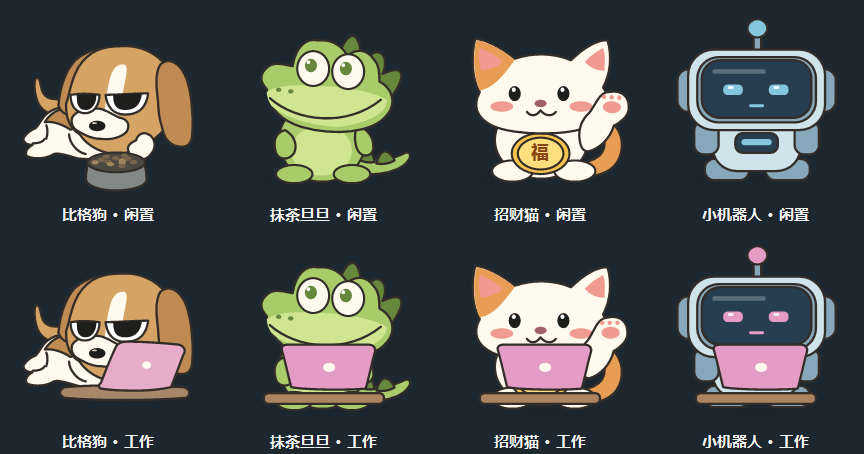
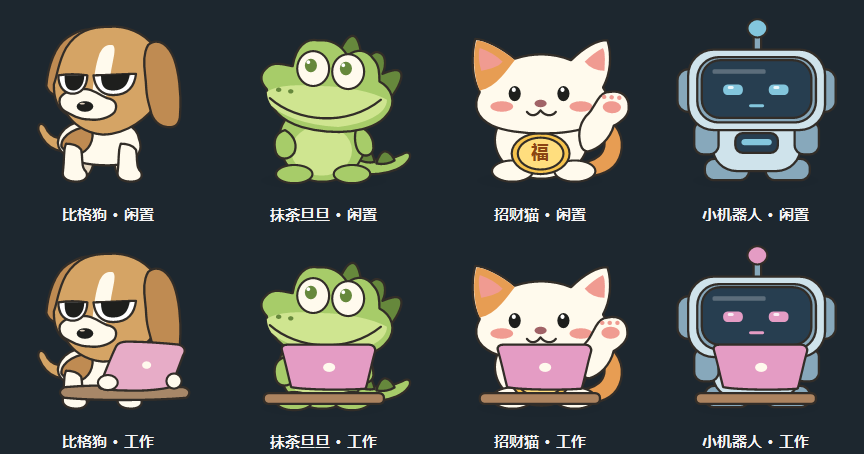
Give the beagle distinct idle, sleep and working poses

Changed region(s): [[0.0312, 0.0617, 0.25, 0.4317], [0.0312, 0.5551, 0.25, 0.8943]]

diff --git a/src/BeagleArt.cs b/src/BeagleArt.cs
@@ -11,7 +11,9 @@ internal static partial class StickerArt
     private static readonly Color Cream = Color.FromArgb(255, 250, 237);
     private static readonly Color Black = Color.FromArgb(30, 31, 29);
 
-    private static Bitmap RenderBeagle(int theme, int phase, int pose, double yaw, bool walking, int width, double lean)
+    private enum BeagleBody { Standing, Sitting, Lounging, Curled, Peeking, Lifted }
+
+    private static Bitmap RenderBeagle(int theme, int frame, int pose, double yaw, bool walking, int width, double lean)
     {
         Bitmap result = new Bitmap(width, Math.Max(1, (int)Math.Round(width * .95)), PixelFormat.Format32bppPArgb);
         using (Graphics g = Graphics.FromImage(result))
@@ -26,12 +28,15 @@ internal static partial class StickerArt
             }
 
             Color accent = theme == 0 ? Color.FromArgb(162, 202, 220) : Color.FromArgb(231, 172, 199);
-            double t = phase * Math.PI * 2 / 48;
+            double t = (frame % 48) * Math.PI * 2 / 48;
+            // 每轮48帧继续播放局部动作，下一轮在三种闲置姿势之间换挡。
+            BeagleBody body = pose == 0 ? (walking ? BeagleBody.Standing : (BeagleBody)(frame / 48 % 3))
+                : pose == 1 ? BeagleBody.Curled : pose == 2 ? BeagleBody.Sitting : pose == 3 ? BeagleBody.Standing
+                : pose == 4 ? BeagleBody.Peeking : BeagleBody.Lifted;
             GraphicsState state = g.Save();
             if (pose == 1)
             {
-                Ellipse(g, accent, 14, 95, 111, 21);
-                g.TranslateTransform(0, 7);
+                Ellipse(g, accent, 17, 101, 105, 20);
             }
             else if (pose == 4) g.TranslateTransform(0, -13);
             else if (pose == 5)
@@ -40,21 +45,20 @@ internal static partial class StickerArt
                 g.RotateTransform((float)(lean + Math.Sin(t * 3) * 7));
                 g.TranslateTransform(-72, -66 - (float)(Math.Sin(t * 4) * 3));
             }
-            else if (pose != 0) g.TranslateTransform(0, (float)(Math.Sin(t * 2) * (walking ? 1.7 : .9)));
+            else if (body == BeagleBody.Standing) g.TranslateTransform(0, (float)(Math.Sin(t * 2) * (walking ? 1.6 : .7)));
 
-            DrawDog(g, pose, t);
+            DrawDog(g, body, pose, t, walking);
             g.Restore(state);
 
-            if (pose == 0) DrawBowl(g);
+            if (body == BeagleBody.Lounging) DrawBowl(g);
             else if (pose == 1)
             {
-                Shape(g, Color.Empty, 115, 31, 117, 30, 120, 30, 123, 30, 121, 33, 118, 35, 116, 38, 119, 38, 122, 38, 125, 37);
-                Shape(g, Color.Empty, 121, 22, 123, 21, 126, 21, 128, 21, 127, 23, 125, 25, 123, 27, 125, 27, 127, 27, 130, 26);
+                DrawSleepMark(g, accent);
             }
             else if (pose == 2)
             {
                 GraphicsState phone = g.Save();
-                g.TranslateTransform(92, 99);
+                g.TranslateTransform(80, 101);
                 g.RotateTransform(-19 + (float)Math.Sin(t * 3) * 2);
                 Shape(g, Ink, -9, -11, -9, -14, -6, -15, -4, -15, 0, -15, 4, -15, 7, -15, 10, -15, 11, -13, 11, -10, 11, -3, 11, 4, 11, 11, 11, 14, 9, 15, 6, 15, 1, 15, -3, 15, -6, 15, -9, 15, -9, 13, -9, 10, -9, 4, -9, -4, -9, -11);
                 using (SolidBrush glass = new SolidBrush(accent)) g.FillRectangle(glass, -6, -11, 14, 21);
@@ -65,14 +69,16 @@ internal static partial class StickerArt
                 Shape(g, Color.FromArgb(167, 135, 104), 42, 105, 65, 103, 94, 104, 120, 105, 125, 106, 125, 110, 122, 112, 99, 114, 62, 114, 42, 112, 38, 110, 38, 107, 42, 105);
                 Shape(g, accent, 66, 102, 69, 94, 73, 84, 76, 78, 77, 76, 80, 75, 83, 75, 94, 75, 107, 76, 117, 77, 121, 78, 122, 81, 120, 84, 117, 92, 114, 100, 112, 105, 99, 108, 80, 108, 66, 106, 64, 105, 64, 104, 66, 102);
                 Ellipse(g, Cream, 93, 88, 6, 5, false);
+                Ellipse(g, Cream, 64, 97, 13, 10);
+                Ellipse(g, Cream, 109, 96, 10, 10);
             }
         }
         return result;
     }
 
-    private static void DrawDog(Graphics g, int pose, double t)
+    private static void DrawDog(Graphics g, BeagleBody body, int pose, double t, bool walking)
     {
-        if (pose != 4)
+        if (body == BeagleBody.Lounging)
         {
             GraphicsState tail = g.Save();
             g.TranslateTransform(38, 70);
@@ -80,18 +86,29 @@ internal static partial class StickerArt
             g.TranslateTransform(-38, -70);
             Shape(g, Fur, 38, 75, 26, 75, 23, 67, 22, 57, 22, 53, 22, 51, 24, 51, 27, 53, 25, 61, 31, 64, 33, 65, 37, 65, 43, 65, 43, 70, 41, 73, 38, 75);
             g.Restore(tail);
+            Shape(g, Cream, 15, 91, 14, 92, 17, 86, 23, 84, 26, 81, 27, 77, 31, 74, 37, 69, 48, 69, 59, 70, 67, 73, 72, 78, 75, 85, 83, 86, 88, 91, 85, 96, 80, 104, 63, 105, 51, 104, 44, 102, 39, 100, 35, 101, 29, 105, 19, 104, 17, 102, 16, 100, 17, 97, 21, 95, 18, 95, 15, 94, 15, 91);
+            Shape(g, Ear, 29, 80, 34, 72, 41, 70, 51, 70, 56, 71, 61, 73, 64, 77, 58, 81, 51, 82, 46, 85, 43, 83, 36, 79, 29, 80);
+            Shape(g, Color.Empty, 30, 91, 31, 88, 31, 84, 30, 82);
+            Shape(g, Color.Empty, 21, 94, 25, 94, 28, 93, 29, 91);
+            Shape(g, Color.Empty, 45, 88, 45, 93, 50, 100, 56, 101);
         }
-        if (pose != 4)
-        {
-        Shape(g, Cream, 15, 91, 14, 92, 17, 86, 23, 84, 26, 81, 27, 77, 31, 74, 37, 69, 48, 69, 59, 70, 67, 73, 72, 78, 75, 85, 83, 86, 88, 91, 85, 96, 80, 104, 63, 105, 51, 104, 44, 102, 39, 100, 35, 101, 29, 105, 19, 104, 17, 102, 16, 100, 17, 97, 21, 95, 18, 95, 15, 94, 15, 91);
-        Shape(g, Ear, 29, 80, 34, 72, 41, 70, 51, 70, 56, 71, 61, 73, 64, 77, 58, 81, 51, 82, 46, 85, 43, 83, 36, 79, 29, 80);
-        Shape(g, Color.Empty, 30, 91, 31, 88, 31, 84, 30, 82);
-        Shape(g, Color.Empty, 21, 94, 25, 94, 28, 93, 29, 91);
-        Shape(g, Color.Empty, 45, 88, 45, 93, 50, 100, 56, 101);
-
-        }
+        else if (body != BeagleBody.Peeking) DrawBeagleBody(g, body, t, walking);
 
         GraphicsState head = g.Save();
+        if (body == BeagleBody.Standing) g.TranslateTransform(-8, -13);
+        else if (body == BeagleBody.Sitting)
+        {
+            g.TranslateTransform(70, 68);
+            g.RotateTransform((float)(-9 + Math.Sin(t) * 3));
+            g.TranslateTransform(-76, -77);
+        }
+        else if (body == BeagleBody.Curled)
+        {
+            g.TranslateTransform(80, 77);
+            g.RotateTransform(-14);
+            g.ScaleTransform(.82f, .82f);
+            g.TranslateTransform(-76, -65);
+        }
         if (pose == 5)
         {
             g.TranslateTransform(72, 68);
@@ -107,6 +124,7 @@ internal static partial class StickerArt
         Ellipse(g, Black, 58, 79, 11, 7, false);
         Ellipse(g, Color.FromArgb(221, 206, 187), 60, 80, 3.4f, 1.25f, false);
         if (pose == 5) Ellipse(g, Black, 70, 89, 6, 7, false);
+        else if (body == BeagleBody.Sitting && pose == 0) Shape(g, Color.Empty, 66, 85, 69, 88, 74, 88, 77, 85);
         g.Restore(head);
 
         if (pose == 4)
@@ -117,7 +135,55 @@ internal static partial class StickerArt
             g.TranslateTransform(-2, -5);
             return;
         }
-        Shape(g, Cream, 84, 99, 83, 97, 84, 94, 89, 92, 90, 88, 94, 86, 97, 88, 100, 89, 102, 93, 101, 97, 100, 101, 96, 105, 91, 105, 87, 105, 85, 103, 84, 99);
+        if (body == BeagleBody.Lounging) Shape(g, Cream, 84, 99, 83, 97, 84, 94, 89, 92, 90, 88, 94, 86, 97, 88, 100, 89, 102, 93, 101, 97, 100, 101, 96, 105, 91, 105, 87, 105, 85, 103, 84, 99);
+    }
+
+    private static void DrawBeagleBody(Graphics g, BeagleBody body, double t, bool walking)
+    {
+        if (body == BeagleBody.Curled)
+        {
+            // 蜷睡时四肢收起，和守食盆的趴姿使用不同的身体轮廓。
+            Ellipse(g, Cream, 25, 74, 68, 42);
+            Shape(g, Ear, 29, 92, 27, 83, 34, 75, 46, 75, 53, 76, 59, 79, 60, 85, 53, 86, 44, 87, 39, 94, 35, 95, 31, 94, 29, 92);
+            Shape(g, Fur, 44, 109, 33, 106, 30, 100, 35, 97, 40, 96, 41, 105, 52, 104, 59, 103, 65, 101, 66, 105, 65, 110, 53, 113, 44, 109);
+            Ellipse(g, Cream, 65, 104, 22, 11);
+            return;
+        }
+
+        if (body != BeagleBody.Lifted)
+        {
+            GraphicsState tail = g.Save();
+            g.TranslateTransform(50, 95);
+            g.RotateTransform((float)Math.Sin(t * (walking ? 5 : 3)) * (body == BeagleBody.Standing ? 19 : 7));
+            g.TranslateTransform(-50, -95);
+            Shape(g, Fur, 53, 98, 39, 99, 30, 92, 29, 79, 29, 75, 32, 72, 34, 77, 35, 87, 42, 89, 54, 89, 58, 91, 57, 96, 53, 98);
+            g.Restore(tail);
+        }
+        if (body == BeagleBody.Sitting)
+        {
+            Ellipse(g, Cream, 47, 73, 47, 44);
+            Shape(g, Fur, 47, 99, 46, 90, 52, 88, 57, 91, 61, 94, 60, 101, 62, 106, 58, 109, 50, 107, 47, 99);
+            Ellipse(g, Cream, 44, 106, 21, 12);
+            Ellipse(g, Cream, 77, 106, 20, 12);
+            Ellipse(g, Cream, 66, 94, 15, 16);
+            return;
+        }
+
+        float stride = (float)Math.Sin(t * (walking ? 6 : 4)) * (body == BeagleBody.Lifted ? 6 : walking ? 4 : 0);
+        // 四足分前后两层，跑动和被拎起时交替摆动。
+        Ellipse(g, Color.FromArgb(231, 216, 192), 47 - stride, 93, 14, 23);
+        Ellipse(g, Color.FromArgb(231, 216, 192), 75 + stride, 95, 14, 23);
+        Shape(g, Cream, 38, 91, 41, 80, 56, 77, 67, 78, 79, 78, 90, 82, 91, 91, 95, 101, 86, 107, 76, 108, 63, 109, 48, 107, 42, 101, 38, 98, 37, 94, 38, 91);
+        Shape(g, Ear, 40, 96, 39, 88, 52, 82, 60, 83, 62, 92, 58, 99, 51, 101, 46, 101, 42, 99, 40, 96);
+        for (int foot = 0; foot < 2; foot++)
+        {
+            GraphicsState leg = g.Save();
+            g.TranslateTransform(foot == 0 ? 43 + stride : 79 - stride, 0);
+            if (body == BeagleBody.Lifted) Ellipse(g, Cream, -2, 96, 15, 22);
+            else Shape(g, Cream, 0, 94, 4, 94, 8, 95, 10, 98, 11, 102, 10, 108, 12, 111,
+                16, 115, 13, 119, 7, 119, 0, 119, -3, 116, -2, 112, -1, 105, -2, 99, 0, 94);
+            g.Restore(leg);
+        }
     }
 
     private static void DrawEyes(Graphics g, int pose)

diff --git a/src/PetInputTests.cs b/src/PetInputTests.cs
@@ -1,4 +1,4 @@
-using System;
+using System;
 using System.Drawing;
 using System.Reflection;
 using System.Windows.Forms;
@@ -13,6 +13,28 @@ public static class PetInputTests
             check(image.Width == 1 && image.Height == 1, "A zero-width docking frame is safe on edge " + edge);
         using (Bitmap image = PetArt.Render(PetArt.Beagle, 0, 0, 0, 25, false, false, 0))
             check(image.Width == 1 && image.Height == 1, "The free-pet renderer also protects zero-width frames");
+        // 在同一局部动画相位比较身体轮廓，排除只有摇尾或换道具的变化。
+        using (Bitmap standing = PetArt.Render(PetArt.Beagle, 0, 8, 0, 25, false))
+        using (Bitmap sitting = PetArt.Render(PetArt.Beagle, 0, 56, 0, 25, false))
+        using (Bitmap lounging = PetArt.Render(PetArt.Beagle, 0, 104, 0, 25, false))
+        using (Bitmap sleeping = PetArt.Render(PetArt.Beagle, 0, 8, 1, 25, false))
+        using (Bitmap walking = PetArt.Render(PetArt.Beagle, 0, 104, 0, 25, true))
+        {
+            int standToSit = 0, sitToLounge = 0, loungeToSleep = 0, walkingToLounge = 0;
+            for (int y = 124; y < standing.Height; y++) for (int x = 0; x < standing.Width; x++)
+            {
+                bool a = standing.GetPixel(x, y).A > 100, b = sitting.GetPixel(x, y).A > 100;
+                bool c = lounging.GetPixel(x, y).A > 100, d = sleeping.GetPixel(x, y).A > 100;
+                bool e = walking.GetPixel(x, y).A > 100;
+                if (a != b) standToSit++;
+                if (b != c) sitToLounge++;
+                if (c != d) loungeToSleep++;
+                if (e != c) walkingToLounge++;
+            }
+            check(standToSit > 160 && sitToLounge > 350, "Beagle idle cycles through three distinct body poses at the same animation phase");
+            check(loungeToSleep > 350, "The sleeping body differs from the lounge silhouette");
+            check(walkingToLounge > 350, "Autonomous walking picks the standing gait instead of sliding the lounge pose");
+        }
         using (ContextMenuStrip menu = new ContextMenuStrip())
         using (DesktopPet pet = new DesktopPet(new Settings { PetDockEdge = 2, PetWalk = false }, delegate { }, delegate(Point point) { }, menu))
         {

diff --git a/src/StickerArt.cs b/src/StickerArt.cs
@@ -11,16 +11,16 @@ internal static partial class StickerArt
     private static readonly Color Mint = Color.FromArgb(207, 229, 144);
     private static readonly Color Blush = Color.FromArgb(240, 155, 145);
 
-    public static Bitmap Render(int kind, int theme, int phase, int pose, double facing, bool walking, int width, double lean)
+    public static Bitmap Render(int kind, int theme, int frame, int pose, double facing, bool walking, int width, double lean)
     {
-        if (kind == PetArt.Beagle) return RenderBeagle(theme, phase, pose, facing, walking, width, lean);
+        if (kind == PetArt.Beagle) return RenderBeagle(theme, frame, pose, facing, walking, width, lean);
         Bitmap result = new Bitmap(width, Math.Max(1, (int)Math.Round(width * .95)), PixelFormat.Format32bppPArgb);
         using (Graphics g = Graphics.FromImage(result))
         {
             g.SmoothingMode = SmoothingMode.AntiAlias;
             g.ScaleTransform(width / 142f, result.Height / 135f);
             Color accent = theme == 0 ? Color.FromArgb(131, 198, 221) : Color.FromArgb(228, 156, 196);
-            double t = phase * Math.PI * 2 / 48;
+            double t = (frame % 48) * Math.PI * 2 / 48;
             if (pose == 1) Ellipse(g, Color.FromArgb(90, accent), 16, 100, 110, 22, false);
             else if (pose != 4 && pose != 5) Ellipse(g, Color.FromArgb(25, 22, 35, 44), 29, 112, 83, 13, false);
 

diff --git a/src/PetArt.cs b/src/PetArt.cs
@@ -19,13 +19,13 @@ public static class PetArt
 
     public static string PoseName(int kind, int pose)
     {
-        return kind == Beagle && pose == 0 ? "闲置趴着" : PoseNames[pose];
+        return kind == Beagle && pose == 0 ? "闲置动作" : PoseNames[pose];
     }
 
     public static Bitmap Render(int kind, int theme, int frame, int pose, double facing, bool walking, bool surprised = false, int width = 200, double lean = 0)
     {
         width = Math.Max(1, width);
-        return StickerArt.Render(kind, theme, frame % 48, surprised ? 5 : pose, facing, walking, width, lean);
+        return StickerArt.Render(kind, theme, frame, surprised ? 5 : pose, facing, walking, width, lean);
     }
 
     private static RectangleF PeekBox(RectangleF bounds, int edge)
@@ -55,7 +55,7 @@ public static class PetArt
                 bool head = layer == 0;
                 float alpha = head ? 1 - amount : amount;
                 if (alpha <= 0) continue;
-                using (Bitmap art = Render(kind, theme, frame, head ? 4 : 0, facing, false, false, width))
+                using (Bitmap art = Render(kind, theme, frame % 48, head ? 4 : 0, facing, false, false, width))
                 {
                     ColorMatrix fade = new ColorMatrix(); fade.Matrix33 = alpha;
                     opacity.SetColorMatrix(fade);

diff --git a/README.md b/README.md
@@ -4,7 +4,9 @@ Windows 桌宠与可配置详情面板，显示当天上班进度、剩余有效
 
 ![四种 2D 桌宠](assets/pets.png)
 
-四种桌宠都用 2D 线稿绘制。比格狗闲置时趴在食盆旁，抹茶旦旦是大眼、宽嘴的小鳄鱼，招财猫会举爪招手，小机器人用屏幕显示表情。可在右键菜单或设置中切换。升级时若原先选中了已移除的形象，自动切换到比格狗。
+![比格狗的闲置动作、睡觉、看手机和工作](assets/beagle-actions.png)
+
+四种桌宠都用 2D 线稿绘制。比格狗闲置时在站立摇尾、坐着歪头、趴着守碗三个动作间轮换，抹茶旦旦是大眼、宽嘴的小鳄鱼，招财猫会举爪招手，小机器人用屏幕显示表情。可在右键菜单或设置中切换。升级时若原先选中了已移除的形象，自动切换到比格狗。
 
 | 霓虹科技 | 樱粉星光 |
 | --- | --- |
@@ -20,7 +22,7 @@ Windows 桌宠与可配置详情面板，显示当天上班进度、剩余有效
 - 详情顶部的小眼睛、右键菜单和 Ctrl+Alt+P 可切换隐私模式，统一隐藏收入与下班总结金额，记住状态；设置页的月薪可主动查看。
 - 可选择登录 Windows 后自动启动，默认关闭；启用时使用当前程序路径，不随分享配置传播。
 - 四种桌宠在左键实际拖动时都会轻摆并露出惊讶表情，松手过渡回原状态。
-- 坐着（比格狗为闲置趴着）、睡觉、摸鱼、工作四种状态，默认每10–20秒随机切换，也可在右键菜单手动指定。姿态只影响动画，不影响工资或提醒判定。
+- 坐着（比格狗为闲置动作）、睡觉、摸鱼、工作四种状态，默认每10–20秒随机切换，也可在右键菜单手动指定。姿态只影响动画，不影响工资或提醒判定。
 - 点击桌宠展开或收起详情。九个详情组件可勾选显隐、拖动排序并记住配置，内容较多时可滚动查看。
 - 今日加班可预设开始与时长，按完成的整半小时累计为可调休时长及正常时薪折算金额；登记已用调休时按较早加班记录优先抵扣。
 - 事假、病假、年假支持自定义计薪比例、提前安排与补录、多段和连续多天；按实际请假时段调整正常收入，暂停健康提醒，可优先使用当时已有调休。
